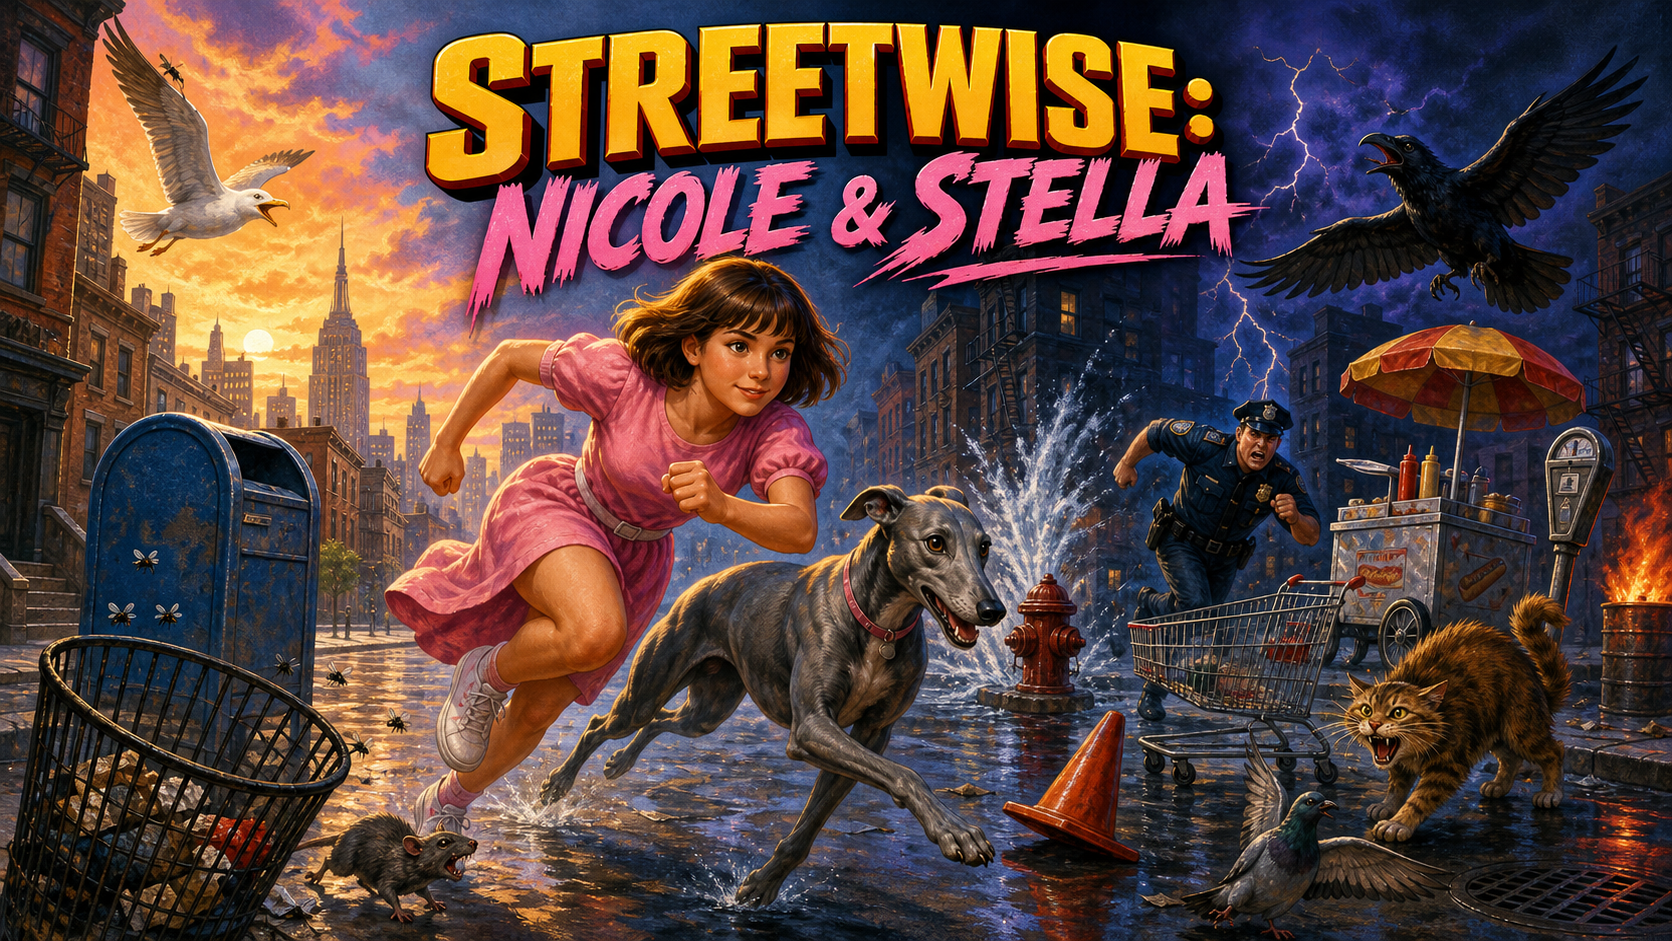
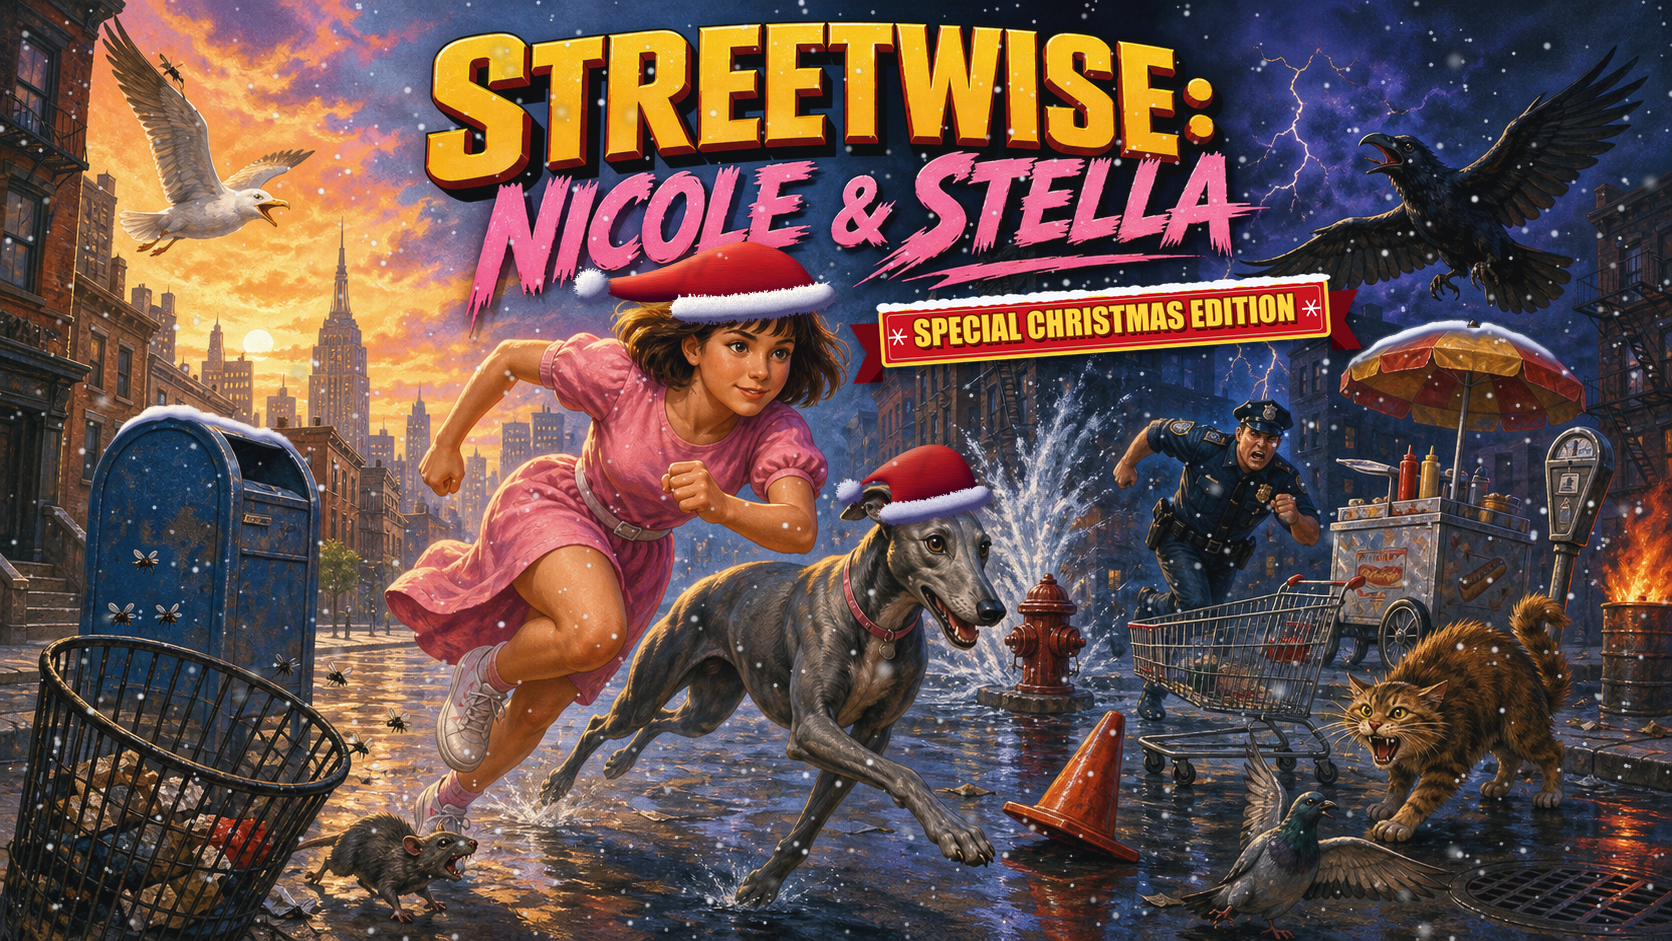
Dress the cover art for the Christmas edition
Santa hats on Nicole and Stella, falling snow, snow settled on the
mailbox and the hot dog cart's umbrella, and a "Special Christmas
Edition" banner under the title. README alt text and CHANGELOG updated
to match.

diff --git a/CHANGELOG.md b/CHANGELOG.md
@@ -12,6 +12,7 @@ All notable changes to Streetwise: Nicole & Stella are recorded here.
 - Gave the start menu a red outline and a red/green candy-stripe bar.
 - The late-night thunderstorm is now a winter storm: it opens as rain, turns to sleet and ends as a heavy, wind-blown snowstorm with a thickening white haze. Lightning and thunder belong to the rain stage only.
 - Snow now builds up on the street during the storm and stays for the rest of the run.
+- Updated the cover art for the season: Santa hats on Nicole and Stella, falling snow, snow settled on the mailbox and the hot dog cart's umbrella, and a "Special Christmas Edition" banner under the title.
 
 ### Easy (Nicole) mode and start menu
 

diff --git a/README.md b/README.md
@@ -1,6 +1,6 @@
 # Streetwise: Nicole & Stella
 
-![Painted late-1980s-style cover art for Streetwise: Nicole & Stella](docs/streetwise-cover.png)
+![Painted late-1980s-style cover art for Streetwise: Nicole & Stella, Special Christmas Edition, with Nicole and Stella in Santa hats running through falling snow](docs/streetwise-cover.png)
 
 A 16-bit-style side-scroller game built with [Phaser 4](https://phaser.io/) and [Vite](https://vitejs.dev/).
 
